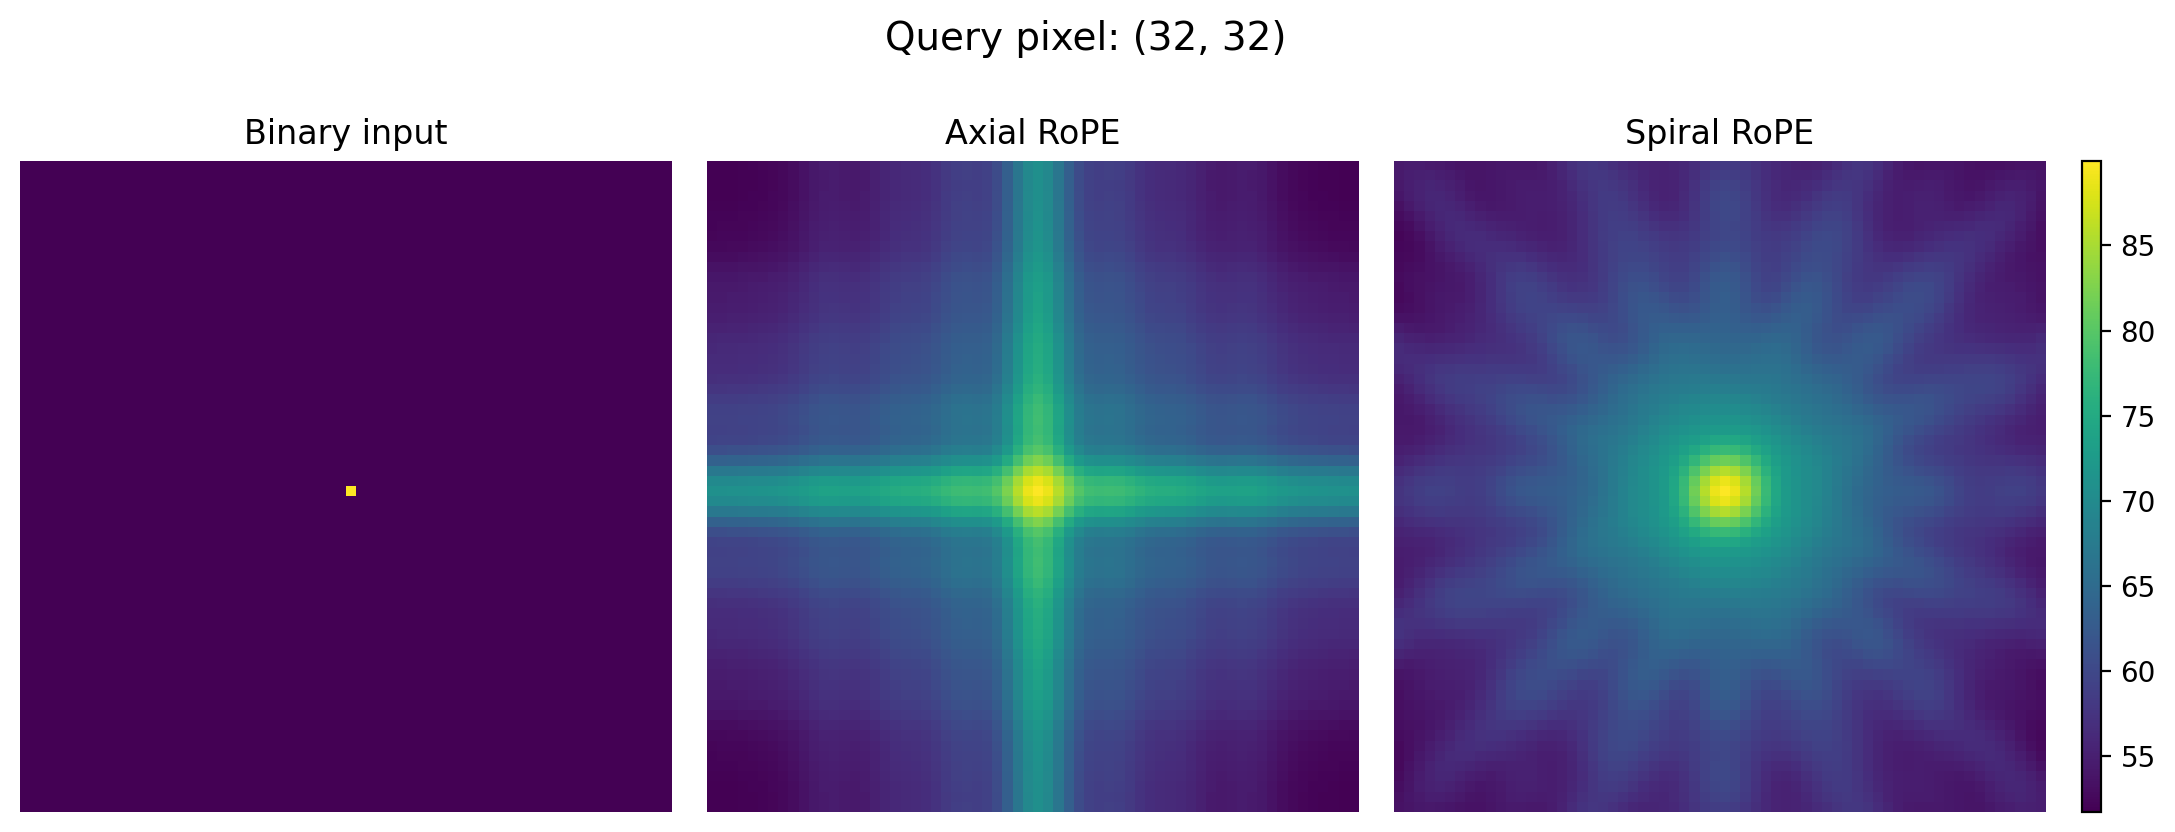
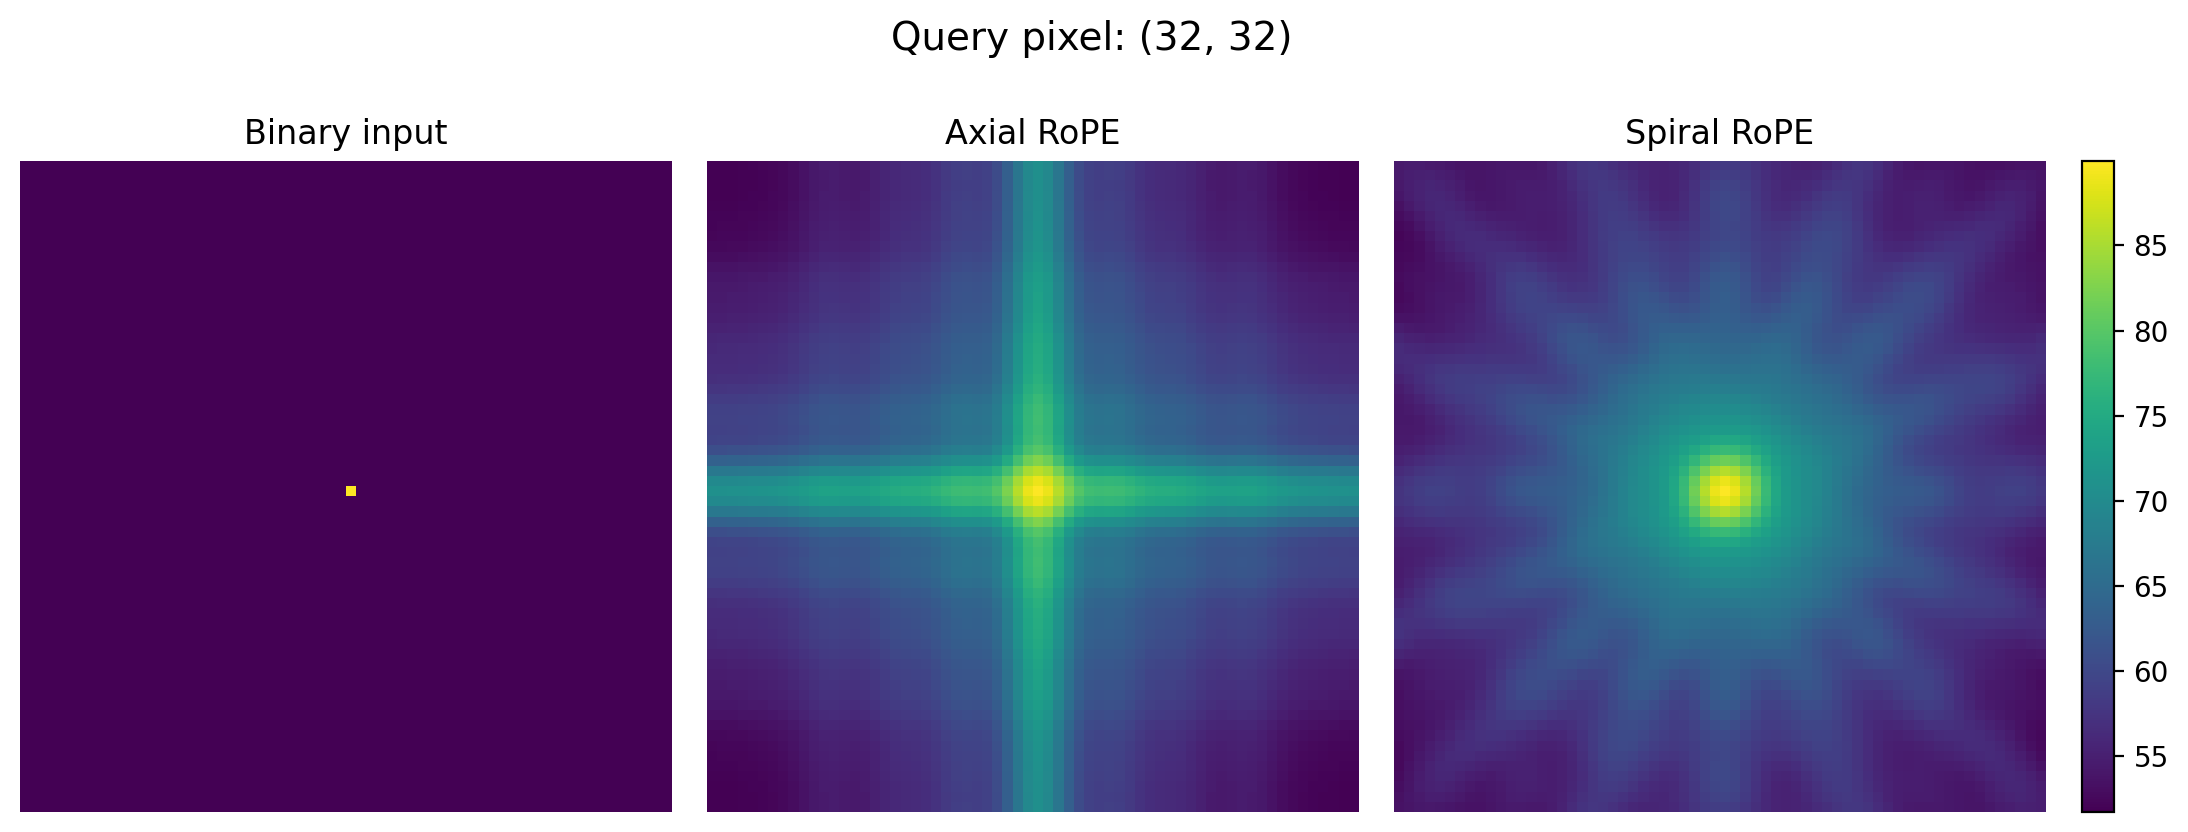
.

diff --git a/rope_attention_single_color.py b/rope_attention_single_color.py
@@ -186,7 +186,7 @@ def plot_results(
         axes_pad=0.18,
         cbar_location="right",
         cbar_mode="single",
-        cbar_size="3%",
+        cbar_size="5%",
         cbar_pad=0.18,
     )
     axes = list(grid)
